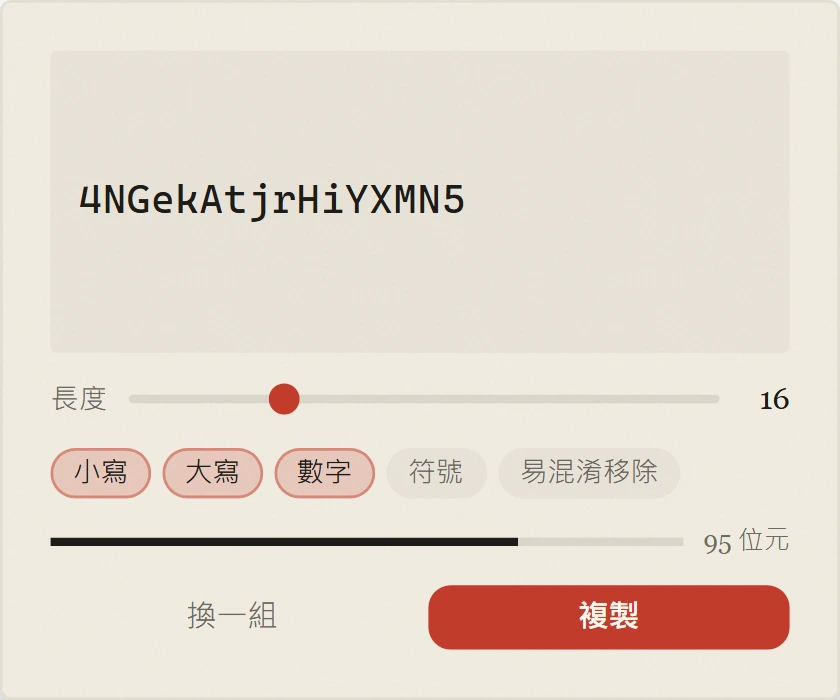
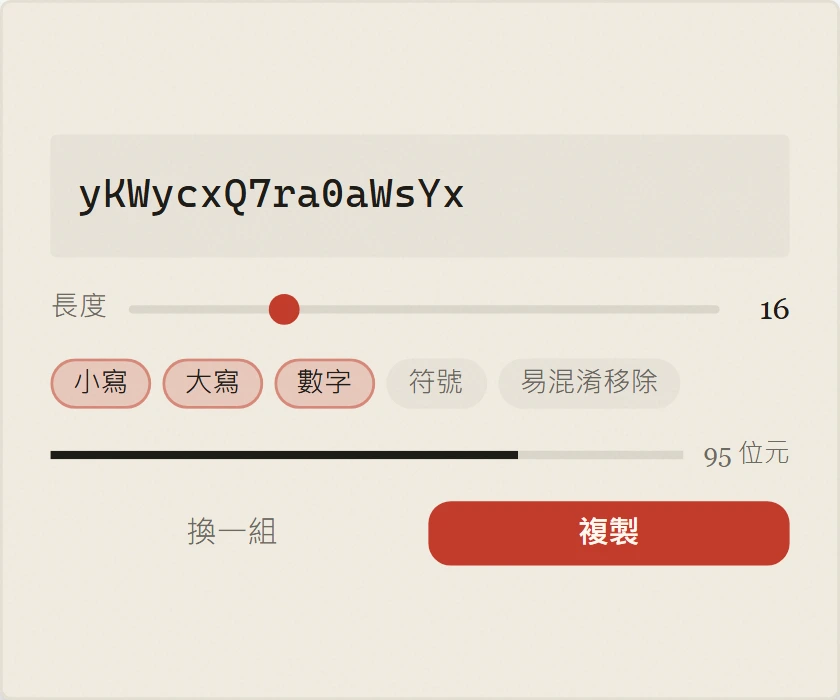
style(widgets): 补 ledger/water/chargeguard/dataplan 预览图并把紧凑卡片内容居中

diff --git a/assets/widgets/chargeguard/style.css b/assets/widgets/chargeguard/style.css
@@ -1,6 +1,6 @@
 body { display: flex; flex-direction: column; }
 
-.cg { flex: 1 1 0; min-height: 0; display: flex; flex-direction: column; gap: 7px; }
+.cg { flex: 1 1 0; min-height: 0; display: flex; flex-direction: column; justify-content: center; gap: 8px; }
 
 header { display: flex; align-items: baseline; gap: 8px; flex: none; }
 .name { font-size: 0.92rem; letter-spacing: 0.02em; }
@@ -35,7 +35,7 @@ header { display: flex; align-items: baseline; gap: 8px; flex: none; }
 .legend #left { flex: 1 1 0; overflow: hidden; text-overflow: ellipsis; white-space: nowrap; }
 .legend #right { flex: none; font-variant-numeric: tabular-nums; }
 
-.foot { display: flex; align-items: center; gap: 6px; flex: none; margin-top: auto; }
+.foot { display: flex; align-items: center; gap: 6px; flex: none; }
 .foot .lbl { font-size: 0.7rem; color: var(--w-fg-muted); }
 
 html[data-theme="paper"] .meter { background: color-mix(in srgb, var(--w-fg) 12%, transparent); }

diff --git a/assets/widgets/passgen/style.css b/assets/widgets/passgen/style.css
@@ -1,10 +1,10 @@
 body { display: flex; flex-direction: column; }
 
-.gen { flex: 1 1 0; min-height: 0; display: flex; flex-direction: column; gap: 9px; }
+.gen { flex: 1 1 0; min-height: 0; display: flex; flex-direction: column; justify-content: center; gap: 10px; }
 
 .pw {
-  flex: 1 1 0;
-  min-height: 2.4rem;
+  flex: none;
+  min-height: 3.2rem; max-height: 5.6rem;
   display: flex; align-items: center;
   padding: 6px 10px;
   border-radius: calc(var(--w-radius) * 0.6);

diff --git a/assets/widgets/water/style.css b/assets/widgets/water/style.css
@@ -1,6 +1,6 @@
 body { display: flex; flex-direction: column; }
 
-.wa { flex: 1 1 0; min-height: 0; display: flex; flex-direction: column; gap: 6px; position: relative; }
+.wa { flex: 1 1 0; min-height: 0; display: flex; flex-direction: column; justify-content: center; gap: 9px; position: relative; }
 
 header { display: flex; align-items: baseline; gap: 8px; flex: none; }
 .name { font-size: 0.92rem; letter-spacing: 0.02em; }

diff --git a/assets/widgets/dataplan/style.css b/assets/widgets/dataplan/style.css
@@ -1,6 +1,6 @@
 body { display: flex; flex-direction: column; }
 
-.dp { flex: 1 1 0; min-height: 0; display: flex; flex-direction: column; gap: 8px; }
+.dp { flex: 1 1 0; min-height: 0; display: flex; flex-direction: column; justify-content: center; gap: 9px; }
 
 header { display: flex; align-items: baseline; gap: 8px; flex: none; }
 .name { font-size: 0.92rem; letter-spacing: 0.02em; }
